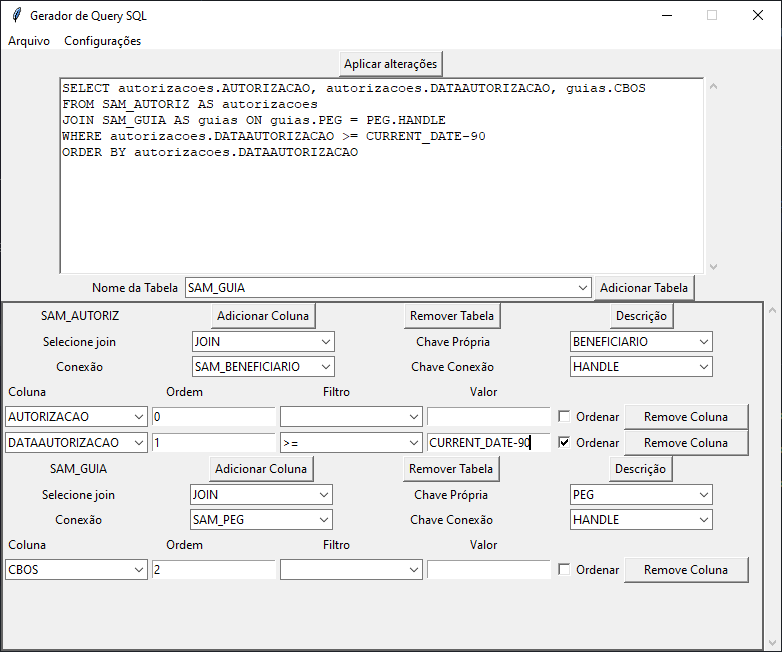
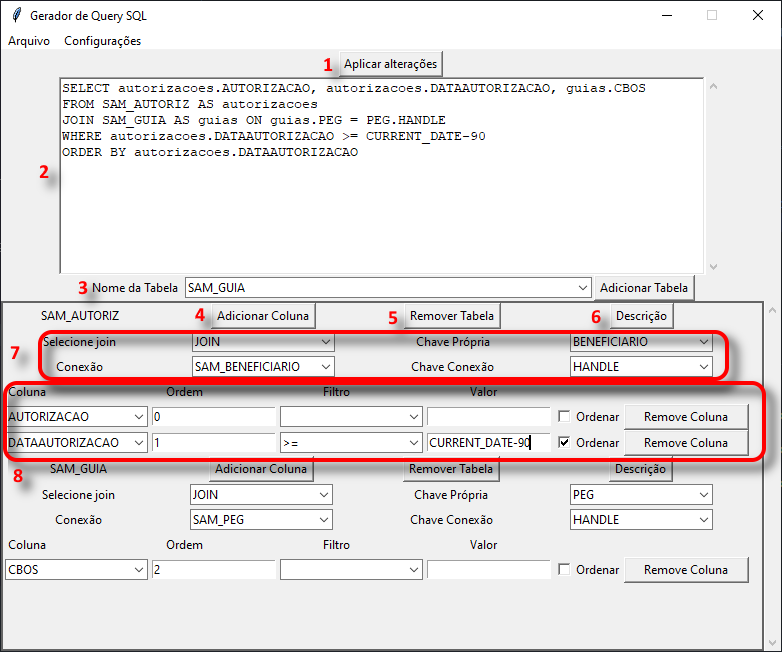
Atualiza README e imagem de referência.

diff --git a/README.md b/README.md
@@ -96,15 +96,15 @@ As configurações padrão são:
 
 #### Utilizando o extrator
 
-![Legenda do menu do extrator.](readmeAssets\docMenuReference.png "Legenda do extrator.")
+![Legenda do menu do extrator.](readmeAssets\docMenuReference.png?raw=true "Legenda do extrator.")
 
-1. Remove todas as tabelas e campos do extrator.
-2. Salva a extração atual em um modelo, no formato json.
-3. Carrega um modelo previamente salvo.
-4. Exporta o extrator em um arquivo txt.
-5. Encerra o script.
+1. **Novo Modelo:** remove todas as tabelas e campos do extrator.
+2. **Abrir Modelo:** carrega um modelo previamente salvo.
+3. **Salvar Modelo:** salva a extração atual em um modelo, no formato json.
+4. **Exportar Modelo:** exporta o extrator em um arquivo txt.
+5. **Sair:** encerra o script.
 
-![Legenda do extrator.](readmeAssets\docReference.png "Legenda do extrator.")
+![Legenda do extrator.](readmeAssets\docReference.png?raw=true "Legenda do extrator.")
 
 1. **Aplicar Alterações:** aplica todas as tabelas, campos, conexões e preferências ao extrator, atualizando o visualizador.
 2. **Visualizador:** visualiza a query SQL resultante do extrator.
